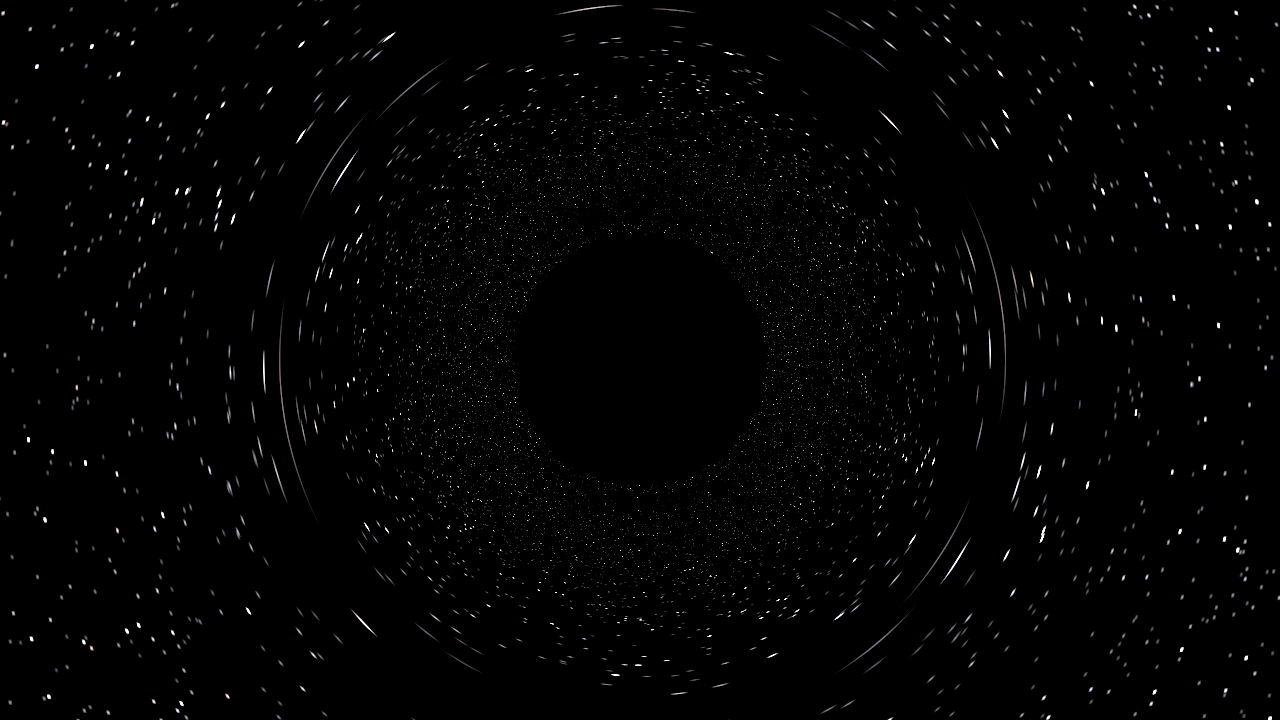
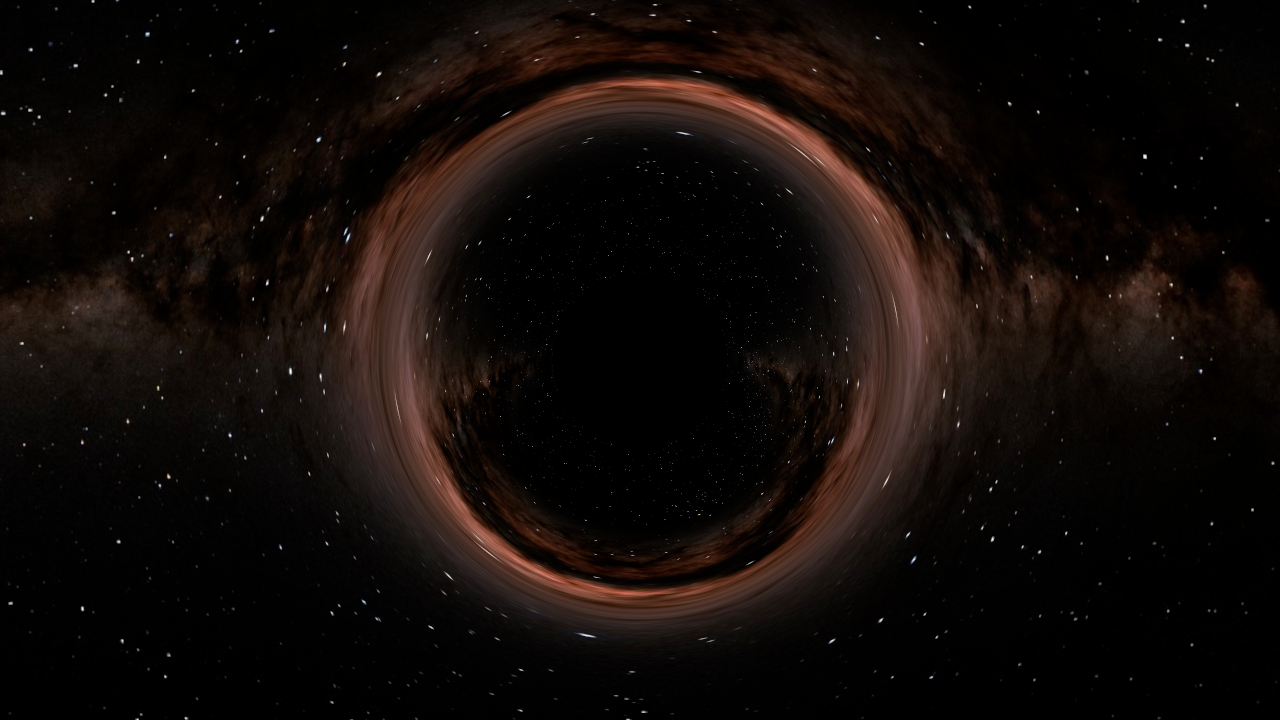
Prepare milestone site for GitHub Pages and add three presentation slides

diff --git a/slides/index.html b/slides/index.html
@@ -1,0 +1,35 @@
+<!doctype html>
+<html lang="en">
+<head>
+<meta charset="utf-8"><meta name="viewport" content="width=device-width,initial-scale=1">
+<title>Black Hole Renderer — Milestone Slides</title>
+<style>
+*{box-sizing:border-box}body{margin:0;background:#080b12;color:#f4f5f7;font-family:Arial,Helvetica,sans-serif}main{max-width:1440px;margin:auto}.slide{min-height:100vh;padding:7vh 7vw;display:flex;flex-direction:column;justify-content:center;border-bottom:1px solid #313743;scroll-margin-top:0}h1{font-size:clamp(40px,5vw,72px);line-height:1.06;margin:0 0 24px;letter-spacing:-.04em}h2{font-size:clamp(32px,4vw,54px);line-height:1.1;margin:0 0 32px;letter-spacing:-.03em}h3{font-size:26px;color:#f1ad83;margin:0 0 12px}p,li{font-size:clamp(20px,2vw,28px);line-height:1.4}p{margin:0 0 24px}.intro{color:#aeb9cc;font-size:20px;margin-bottom:25px}.two{display:grid;grid-template-columns:1fr 1.1fr;gap:44px;align-items:center}figure{margin:0}img{display:block;width:100%;height:auto}figcaption,.source{font-size:15px;color:#aeb9cc;line-height:1.4;margin-top:12px}.source{margin-top:28px}a{color:#afcfff}.metric{color:#f1ad83;font-size:42px;font-weight:bold;margin:22px 0 4px}.small{font-size:20px}ul{padding-left:24px;margin:0}li{margin-bottom:18px}.next{display:grid;grid-template-columns:1fr 1fr;gap:52px}.next p{font-size:24px}.controls{position:fixed;bottom:12px;right:18px;display:flex;align-items:center;gap:12px;padding:8px;background:#080b12e8;color:#aeb9cc;font-size:14px}button{background:#222d40;color:white;border:1px solid #52617b;border-radius:3px;padding:8px 13px;font-size:16px;cursor:pointer}button:focus-visible,a:focus-visible{outline:3px solid #f1ad83}html{scroll-behavior:smooth;scroll-snap-type:y proximity}.slide{scroll-snap-align:start}@media(max-width:800px){.two,.next{grid-template-columns:1fr}.slide{padding:60px 25px 80px}.next{gap:24px}.two{gap:24px}}@media print{@page{size:13.333in 7.5in;margin:0}body{print-color-adjust:exact;-webkit-print-color-adjust:exact}.slide{height:7.5in;min-height:0;padding:45px 60px;break-after:page;overflow:hidden;border:0}h1{font-size:50px}h2{font-size:42px}p,li{font-size:22px}.intro{font-size:18px}.two{gap:30px}.controls{display:none}.source{font-size:12px}.next p{font-size:22px}}
+</style>
+</head>
+<body>
+<main>
+<section class="slide" id="idea" aria-labelledby="idea-title">
+<div class="two"><div><p class="intro">CS184 Fall 2026 · Project milestone</p><h1 id="idea-title">Black Hole<br>Renderer</h1><p>Trace curved light paths around a non-spinning black hole.</p><p class="small">A C++ ray tracer integrates photon trajectories with RK4. Captured rays form the shadow. Escaped rays sample an equirectangular star map.</p></div><figure><img src="../images/shadow_stars.png" alt="Rendered black hole shadow surrounded by a bright ring of lensed starlight"><figcaption>1280 × 720 render with the NASA star map. Accretion disk disabled.</figcaption></figure></div>
+<p class="source">Project: <a href="../index.html">milestone report</a> · Sky asset: <a href="https://svs.gsfc.nasa.gov/4851">NASA Deep Star Maps 2020</a></p>
+</section>
+<section class="slide" id="results" aria-labelledby="results-title">
+<h2 id="results-title">Current results</h2><div class="two"><div><p>Working shadow and sky lensing, plus a thin accretion disk with striped and temperature-based shading.</p><p class="metric">9.7× fewer steps</p><p class="small">Adaptive stepping: 230 steps per ray<br>Fixed stepping: 2,224 steps per ray</p><p class="metric">1.48 s per image</p><p class="small">1280 × 720, adaptive steps, 8 threads.<br>5.2× speedup over one thread on Apple M3.</p></div><figure><img src="../renders/disk_blackbody_80.png" alt="Blackbody accretion disk at 80 degrees with the far side bending above the shadow"><figcaption>Nearly edge-on disk at 80°. Curved rays reveal the far side above the shadow. Redshift and Doppler effects remain future work.</figcaption></figure></div>
+<p class="source">Source: repository milestone benchmarks in index.html and NOTES.md. Times are medians of three runs. Benchmarks use the Stage 1 scene, without the disk.</p>
+</section>
+<section class="slide" id="next" aria-labelledby="next-title">
+<h2 id="next-title">Next steps: accuracy and GPU performance</h2><div class="next"><div><h3>Numerical accuracy</h3><p>Compare Euler, fixed RK4 and adaptive RK45 against a high-accuracy deflection reference.</p><p>Plot error against function evaluations and check the critical impact parameter near 2.598.</p><h3>Disk shading</h3><p>Add gravitational redshift and Doppler beaming. Evaluate disk-hit interpolation.</p></div><div><h3>GPU implementation</h3><p>Port the geodesic integrator to a GPU shader and measure frame time against the CPU renderer.</p><h3>Optimization and final results</h3><p>Measure precision, adaptive stepping and a deflection lookup table. Report speed versus accuracy, then produce a flythrough.</p></div></div>
+<p class="source">Planned work from the milestone report. Integrator comparisons and GPU measurements are not yet reported.</p>
+</section>
+</main>
+<nav class="controls" aria-label="Slide navigation"><button id="previous" aria-label="Previous slide">Previous</button><span id="counter" aria-live="polite">1 / 3</span><button id="next-button" aria-label="Next slide">Next</button><button id="fullscreen">Full screen</button></nav>
+<script>
+const slides=[...document.querySelectorAll('.slide')];let current=0;
+function go(n){current=Math.max(0,Math.min(slides.length-1,n));slides[current].scrollIntoView();history.replaceState(null,'','#'+slides[current].id);update();}
+function update(){document.getElementById('counter').textContent=`${current+1} / ${slides.length}`;document.getElementById('previous').disabled=current===0;document.getElementById('next-button').disabled=current===slides.length-1;}
+document.getElementById('previous').onclick=()=>go(current-1);document.getElementById('next-button').onclick=()=>go(current+1);
+document.getElementById('fullscreen').onclick=async()=>{try{if(document.fullscreenElement)await document.exitFullscreen();else await document.documentElement.requestFullscreen();}catch{document.getElementById('fullscreen').textContent='Use browser full screen';}};
+document.addEventListener('keydown',e=>{if(e.target.closest('button,a,input,textarea'))return;if(['ArrowRight','ArrowDown','PageDown',' '].includes(e.key)){e.preventDefault();go(current+1);}if(['ArrowLeft','ArrowUp','PageUp'].includes(e.key)){e.preventDefault();go(current-1);}if(e.key==='Home'){e.preventDefault();go(0);}if(e.key==='End'){e.preventDefault();go(slides.length-1);}});
+const observer=new IntersectionObserver(entries=>{for(const entry of entries)if(entry.isIntersecting){current=slides.indexOf(entry.target);update();}},{threshold:0.55});slides.forEach(s=>observer.observe(s));update();
+</script>
+</body></html>

diff --git a/index.html b/index.html
@@ -64,10 +64,10 @@
 <div class="names">Names: Aahil Syed, Ronald Aung, Person 3, Person 4</div>
 <br>
 <div class="links">
-    <a href="#">Webpage</a> | <a href="#">Slides</a> | <a href="#">Video</a> | <a href="#">GitHub</a>
+    <a href="https://aahilsyed72.github.io/cs184-final-project/">Webpage</a> | <a href="slides/">Slides</a> | <span>Video (coming soon)</span> | <a href="https://github.com/aahilsyed72/cs184-final-project">GitHub</a>
 </div>
 
-<div class="todo"><b>TODO (Person 4):</b> Replace the four links above with the real GitHub Pages URL, slides, unlisted YouTube video, and repo. Delete every yellow TODO box before printing to PDF.</div>
+<div class="todo"><b>TODO (Person 4):</b> Add the video link once the recording is ready. The webpage, slides, and repository links are filled in. Delete every yellow TODO box before printing to PDF.</div>
 
 <h2>Summary</h2>
 <p>

diff --git a/NOTES.md b/NOTES.md
@@ -228,3 +228,25 @@ The disk extends past the image edges with the current camera distance and field
 The code builds, and numerical checks passed for disk crossings, the temperature peak, valid
 color values, and camera angles. The images were also checked visually; that doesn't replace
 an accuracy comparison against a reference.
+## Person 4 — star map render (steps 2–3)
+
+Rendered the existing `assets/starmap_2020_4k_gal.jpg` sky at 1280x720 with
+four samples per pixel and the disk disabled. Compared camera positions
+`(0,-20,2)`, `(-20,0,2)`, and `(-20,0,8)` at the default 40-degree vertical
+field of view. The `(-20,0,2)` view produced the clearest bright lensing ring;
+increasing its field of view to 55 degrees kept the complete ring in frame.
+Saved this selection as `images/shadow_stars.png`, already referenced by the
+Preliminary Results section in `index.html`.
+
+Reproduce from the repository root:
+
+```bash
+cmake -S . -B build
+cmake --build build -j
+./build/blackhole --sky assets/starmap_2020_4k_gal.jpg --disk none --pos -20,0,2 --fov 55 --res 1280x720 --spp 4 --threads 8 -o images/shadow_stars.png
+```
+
+The build succeeded and all four candidate renders were visually inspected.
+The selected render traced 3,686,400 rays: 96,968 captured, 3,589,432 escaped,
+zero disk hits, and zero rays reaching the step limit. The bright band is the
+lensed sky; disk shading was disabled explicitly because it is enabled by default.
